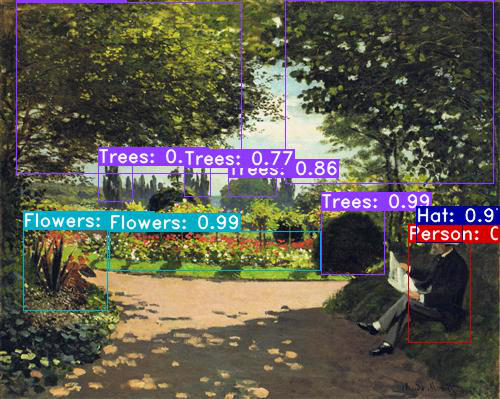
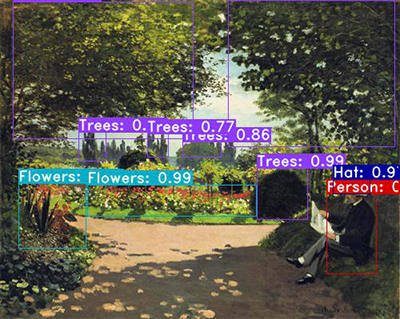
web updates

diff --git a/PlacesYouveNeverBeen/index.html b/PlacesYouveNeverBeen/index.html
@@ -3,28 +3,39 @@
 
 <head>
   <meta charset="utf-8">
-  <title>Teaching Resources @JenSykes</title>
+  <title>Selected Work @JenSykes</title>
   <!--<link href="https://fonts.googleapis.com/css?family=Source+Code+Pro:200,200i,300,300i,400,400i,500,500i,600,600i,700,700i&display=swap" rel="stylesheet"> -->
   <link rel="stylesheet" href="/main.css">
 </head>
 
 <body>
   <div id="title">
-    <h1>To See The World</h1>
-    <h1>Differently, Listen</h1>
+    <h1>Places You've</h1>
+    <h1>Never Been</h1>
     <br>
-    <h3>in collaboration with Mil Stricevic and the BBC</h3>
+    <h3>35mm slides, digitized and trained using a CycleGAN model</h3>
   </div>
   <div id="wrapper">
     <section>
       <h1>Summary: </h1>
-      <p>To celebrate the 50th anniversary of BBC Radio 4, a public audio bench toured key city stations across the UK.
-      </p>
-      <p>Bespoke audio content and hardware was embedded into the arms of benches, making it freely accessible to anyone
-        with a pair of headphones.</p>
+      <p>Places You’ve Never Been transforms a small personal data set of digitally scanned 35mm slides into a series
+        of generated imagery. This series is printed back onto celluloid 35mm slides, and displayed via a carousel
+        projector.</p>
+      <p>The familiar sound, mechanics and presence of a 35mm slide projector evokes a sensory association to
+        specific times and experiences. By presenting visual outputs in physical mediums such as 35mm film the work
+        examines the human association to
+        narrative and memory when the generated imagery is
+        viewed via such tangible mediums.</p>
+      <p>The
+        personal archived 35mm imagery of family emigration from Canada to England and neural networks
+        to document both a narrative experienced first-hand by her grandparent and a memory of an illusory
+        nomadic landscape generated by a machine. When the generated imagery is developed back into
+        35mm film slide the experience becomes something only accessed in the imagined state of others’
+        minds.</p>
       <br>
-      <p>More details about the concept development can be found <a
-          href="https://www.milish.studio/to-see-the-world-differently-listen" target="_blank"> here</a></p>
+      <p>This work was exhibited in The Project Room, Glasgow and was part of the 2018 </p>
+      <p> <a href="http://www.aiartonline.com/community/jen-sykes/" target="_blank">AI Art Exhibition</a> in Montreal.
+      </p>
 
 
     </section>
@@ -32,32 +43,44 @@
     <section>
       <h1>Materials : </h1>
       <ul>
-        <li>Solar Panels</li>
-        <li>Microcontrollers</li>
-        <li>Audio Drivers</li>
-        <li>Custom made Wooden Benches</li>
-
-      </ul>
-    </section>
-    ---------------------------------------------------------------------------->
-    <section>
-      <h1>Role : </h1>
-      <ul>
-        <li>Custom Audio software and hardware design</li>
-        <li>Circuit design</li>
+        <li>Cycle GAN model</li>
+        <li>35mm Slides</li>
+        <li>Carousel Projection</li>
       </ul>
     </section>
     ---------------------------------------------------------------------------->
     <div id="frames">
-      <section>
-        <div class="grid-container">
-          <div class="grid-item"></div>
-          <div class="grid-item"></div>
-          <div class="grid-item"></div>
-          <div class="grid-item"></div>
-        </div>
-    </div>
-    </section>
+      <div class="grid-container">
+        <div class="grid-item"> <a href="/images/NetworkBending01.jpg" class="lazy-load replace">
+            <img src="/images/NetworkBending01.jpg" class="preview" alt="Cambodia Angkorwat" frameborder="0" />
+          </a></div>
+        <div class="grid-item"> <a href="/images/NetworkBending02.jpg" class="lazy-load replace">
+            <img src="/images/NetworkBending02.jpg" class="preview" alt="Cambodia Angkorwat" frameborder="0" />
+          </a></div>
+        <div class="grid-item"> <a href="/images/NetworkBending03.jpg" class="lazy-load replace">
+            <img src="/images/NetworkBending03.jpg" class="preview" alt="Cambodia Angkorwat" frameborder="0" />
+          </a></div>
+        <div class="grid-item"> <a href="/images/NetworkBending04.jpg" class="lazy-load replace">
+            <img src="/images/NetworkBending04.jpg" class="preview" alt="Cambodia Angkorwat" frameborder="0" />
+          </a></div>
+      </div>
+  </div>
+      <!-- <div class="grid-container">
+        <div class="grid-item"> <a href="/images/FEATURED.jpg" class="lazy-load replace">
+            <img src="/images/FEATURED.jpg" class="preview" alt="Cambodia Angkorwat" frameborder="0" />
+          </a></div>
+        <div class="grid-item"> <a href="/images/03.jpg" class="lazy-load replace">
+            <img src="images/03.jpg" class="preview" alt="Cambodia Angkorwat" frameborder="0" />
+          </a></div>
+        <div class="grid-item"> <a href="images/04.jpg" class="lazy-load replace">
+            <img src="images/04.jpg" class="preview" alt="Cambodia Angkorwat" frameborder="0" />
+          </a></div>
+        <div class="grid-item"> <a href="images/02.jpg" class="lazy-load replace">
+            <img src="images/02.jpg" class="preview" alt="Cambodia Angkorwat" frameborder="0" />
+          </a></div>
+      </div> -->
+   
+
 
     ---------------------------------------------------------------------------->
 

diff --git a/PhysicalTeachableMachine/index.html b/PhysicalTeachableMachine/index.html
@@ -10,21 +10,26 @@
 
 <body>
   <div id="title">
-    <h1>To See The World</h1>
-    <h1>Differently, Listen</h1>
+    <h1>Physical Teachable Machines</h1>
     <br>
-    <h3>in collaboration with Mil Stricevic and the BBC</h3>
+    <h3>Machine Learning for physical computing</h3>
   </div>
   <div id="wrapper">
     <section>
       <h1>Summary: </h1>
-      <p>To celebrate the 50th anniversary of BBC Radio 4, a public audio bench toured key city stations across the UK.
+      <p><a
+        href="http://www.wekinator.org/" target="_blank">Wekinator</a> inspired a series of accessible Machine Learning tools for the web such as <a
+        href="https://teachablemachine.withgoogle.com/v1/" target="_blank">Teachable Machine</a> and <a
+        href="https://teachablemachine.withgoogle.com/" target="_blank">Teachable Machine 2.</a>
       </p>
-      <p>Bespoke audio content and hardware was embedded into the arms of benches, making it freely accessible to anyone
-        with a pair of headphones.</p>
+      <p>The latter tools primarily focus on image as an input. Below is a series of Teaching examples created for physical
+        computing inputs such as touch, light and movement sensors </p>
       <br>
-      <p>More details about the concept development can be found <a
-          href="https://www.milish.studio/to-see-the-world-differently-listen" target="_blank"> here</a></p>
+      <p>The code is open source and uses the <a
+        href="https://ml5js.org/" target="_blank"> ML5 Library</a> and Neural Net Function </p>
+        <p>The repo for the examples lives <a
+          href="https://github.com/j3nsykes/creativeML2020/tree/master/PhysicalTeachableMachines" target="_blank"> here</a> and the P5JS collection is contained <a
+          href="https://editor.p5js.org/jen_GSA/collections/FWD_DfCPa" target="_blank"> here</a></p>
 
 
     </section>
@@ -32,32 +37,31 @@
     <section>
       <h1>Materials : </h1>
       <ul>
-        <li>Solar Panels</li>
-        <li>Microcontrollers</li>
-        <li>Audio Drivers</li>
-        <li>Custom made Wooden Benches</li>
+        <li>ML5 Library</li>
+        <li>Bare Conductive Touch Board</li>
+        <li>Conductive Ink</li>
+        <li>Arduino Nano BLE 33 Sense</li>
+        <li>Accelerometer</li>
+        <li>Colour Sense</li>
 
       </ul>
     </section>
-    ---------------------------------------------------------------------------->
-    <section>
-      <h1>Role : </h1>
-      <ul>
-        <li>Custom Audio software and hardware design</li>
-        <li>Circuit design</li>
-      </ul>
-    </section>
+
     ---------------------------------------------------------------------------->
     <div id="frames">
-      <section>
-        <div class="grid-container">
-          <div class="grid-item"></div>
-          <div class="grid-item"></div>
-          <div class="grid-item"></div>
-          <div class="grid-item"></div>
-        </div>
+      <div class="grid-containerLandscape">
+        <div style="padding:56.25% 0 0 0;position:relative;"><iframe
+            src="https://player.vimeo.com/video/445665006?autoplay=1&loop=1&title=0byline=0&portrait=0"
+            style="position:absolute;top:0;left:0;width:100%;height:100%;" frameborder="0"
+            allow="autoplay; fullscreen; picture-in-picture" allowfullscreen></iframe></div>
+        <script src="https://player.vimeo.com/api/player.js"></script>
+        <div style="padding:56.15% 0 0 0;position:relative;"><iframe
+            src="https://player.vimeo.com/video/446211949?autoplay=1&loop=1&title=0&byline=0&portrait=0"
+            style="position:absolute;top:0;left:0;width:100%;height:100%;" frameborder="0"
+            allow="autoplay; fullscreen; picture-in-picture" allowfullscreen></iframe></div>
+        <script src="https://player.vimeo.com/api/player.js"></script>
+      </div>
     </div>
-    </section>
 
     ---------------------------------------------------------------------------->
 

diff --git a/FirstImpressions/index.html b/FirstImpressions/index.html
@@ -10,55 +10,48 @@
 
 <body>
   <div id="title">
-    <h1>To See The World</h1>
-    <h1>Differently, Listen</h1>
+    <h1>First Impressions</h1>
     <br>
-    <h3>in collaboration with Mil Stricevic and the BBC</h3>
+    <h3>custom trained object detection model</h3>
   </div>
   <div id="wrapper">
     <section>
       <h1>Summary: </h1>
-      <p>To celebrate the 50th anniversary of BBC Radio 4, a public audio bench toured key city stations across the UK.
-      </p>
-      <p>Bespoke audio content and hardware was embedded into the arms of benches, making it freely accessible to anyone
-        with a pair of headphones.</p>
-      <br>
-      <p>More details about the concept development can be found <a
-          href="https://www.milish.studio/to-see-the-world-differently-listen" target="_blank"> here</a></p>
-
+      <p>A mini experiment to demonstrate how to train a custom object detection model.</p>
+      <p>A lot of focus is put on machine learning models' intelligence and ability to easily replicate human tasks.
+        However, in reality a model requires a greta deal of human guidance.a</p>
+        <p>Does the machine understand the nuance of Impressionist painting methods or is it a clever ruse to deceive the human eye</p>
 
     </section>
     ---------------------------------------------------------------------------->
     <section>
       <h1>Materials : </h1>
       <ul>
-        <li>Solar Panels</li>
-        <li>Microcontrollers</li>
-        <li>Audio Drivers</li>
-        <li>Custom made Wooden Benches</li>
+        <li>custom trained YOLO model</li>
+        <li>RunwayML</li>
+        <li>Impressionist Paintings</li>
+        <li>P5JS</li>
 
-      </ul>
-    </section>
-    ---------------------------------------------------------------------------->
-    <section>
-      <h1>Role : </h1>
-      <ul>
-        <li>Custom Audio software and hardware design</li>
-        <li>Circuit design</li>
       </ul>
     </section>
     ---------------------------------------------------------------------------->
     <div id="frames">
-      <section>
-        <div class="grid-container">
-          <div class="grid-item"></div>
-          <div class="grid-item"></div>
-          <div class="grid-item"></div>
-          <div class="grid-item"></div>
-        </div>
+      <div class="grid-container">
+        <div class="grid-item"> <a href="/images/img000000001.png" class="lazy-load replace">
+            <img src="/images/img000000001.png" class="preview" alt="Cambodia Angkorwat" frameborder="0" />
+          </a></div>
+        <div class="grid-item"> <a href="/images/img000000007.png" class="lazy-load replace">
+            <img src="/images/img000000007.png" class="preview" alt="Cambodia Angkorwat" frameborder="0" />
+          </a></div>
+      </div>
+      <div class="grid-containerLandscape">
+        <div style="padding:54.38% 0 0 0;position:relative;"><iframe
+            src="https://player.vimeo.com/video/446832119?autoplay=1&loop=1&color=ffffff&title=0&byline=0&portrait=0"
+            style="position:absolute;top:0;left:0;width:100%;height:100%;" frameborder="0"
+            allow="autoplay; fullscreen; picture-in-picture" allowfullscreen></iframe></div>
+        <script src="https://player.vimeo.com/api/player.js"></script>
+      </div>
     </div>
-    </section>
-
     ---------------------------------------------------------------------------->
 
     <section>

diff --git a/index.html b/index.html
@@ -26,9 +26,9 @@
       <ul><a href="https://j3nsykes.github.io/Countdowns/" target="_blank">Places You've Never Been (2018)</a></ul>
       <ul><a href="https://j3nsykes.github.io/FieldsOfView" target="_blank">Fields of View (2021)</a></ul>
       <ul><a href="https://j3nsykes.github.io/ArduinoSetup/" target="_blank">Functional Errors (2020)</a></ul>
-      <ul><a href="" target="_blank">Physical Teachable Machines (2019)</a></ul>
+      <ul><a href="https://j3nsykes.github.io/PhysicalTeachableMachines" target="_blank">Physical Teachable Machines (2019)</a></ul>
       <ul><a href="https://j3nsykes.github.io/RobotsInResidence" target="_blank">Robots In Residence (2020)</a></ul>
-      <ul><a href="https://www.milish.studio/to-see-the-world-differently-listen" target="_blank">To See the World Differently, Listen (2016)</a></ul>
+      <ul><a href="https://j3nsykes.github.io/BBCBenches" target="_blank">To See the World Differently, Listen (2016)</a></ul>
 
     </section>
 
@@ -41,9 +41,9 @@
       <br>
 
       <!-- <ul><a href="https://j3nsykes.github.io/CreativeML/" target="_blank">CreativeML</a></ul> -->
-      <ul><a href="https://j3nsykes.github.io/Countdowns/" target="_blank">Bounding Boxes</a></ul>
+      <ul><a href="https://j3nsykes.github.io/BoundingBoxes" target="_blank">Bounding Boxes</a></ul>
       <ul><a href="https://j3nsykes.github.io/Countdowns/" target="_blank">Countdowns for the pandemic</a></ul>
-      <ul><a href="https://j3nsykes.github.io/ArduinoSetup/" target="_blank">First Impressions</a></ul>
+      <ul><a href="https://j3nsykes.github.io/FirstImpressions" target="_blank">First Impressions</a></ul>
 
 
     </section>
@@ -60,7 +60,7 @@
       <p>Remember to sign in then duplicate any P5JS examples in order to edit and save your changes.</p>
       <br>
       <!-- <ul><a href="https://j3nsykes.github.io/CreativeML/" target="_blank">CreativeML</a></ul> -->
-      <ul><a href="https://j3nsykes.github.io/Countdowns/" target="_blank">Countdowns for the pandemic</a></ul>
+      <ul><a href="https://j3nsykes.github.io/PhysicalTeachableMachines" target="_blank">Physical Teachable Machines (2019)</a></ul>
       <ul><a href="https://j3nsykes.github.io/ArduinoSetup/" target="_blank">Arduino Setup for Machine Learning</a></ul>
       <ul><a href="https://j3nsykes.github.io/CreativeML" target="_blank">Creative Machine Learning</a></ul>
 

diff --git a/main.css b/main.css
@@ -79,7 +79,7 @@ strong {
   display: grid;
   grid-column-gap: 5px;
   grid-row-gap: 5px;
-  grid-template-columns: 400px 400px;
+  grid-template-columns: 800px;
   align-content: space-evenly;
 }
 
